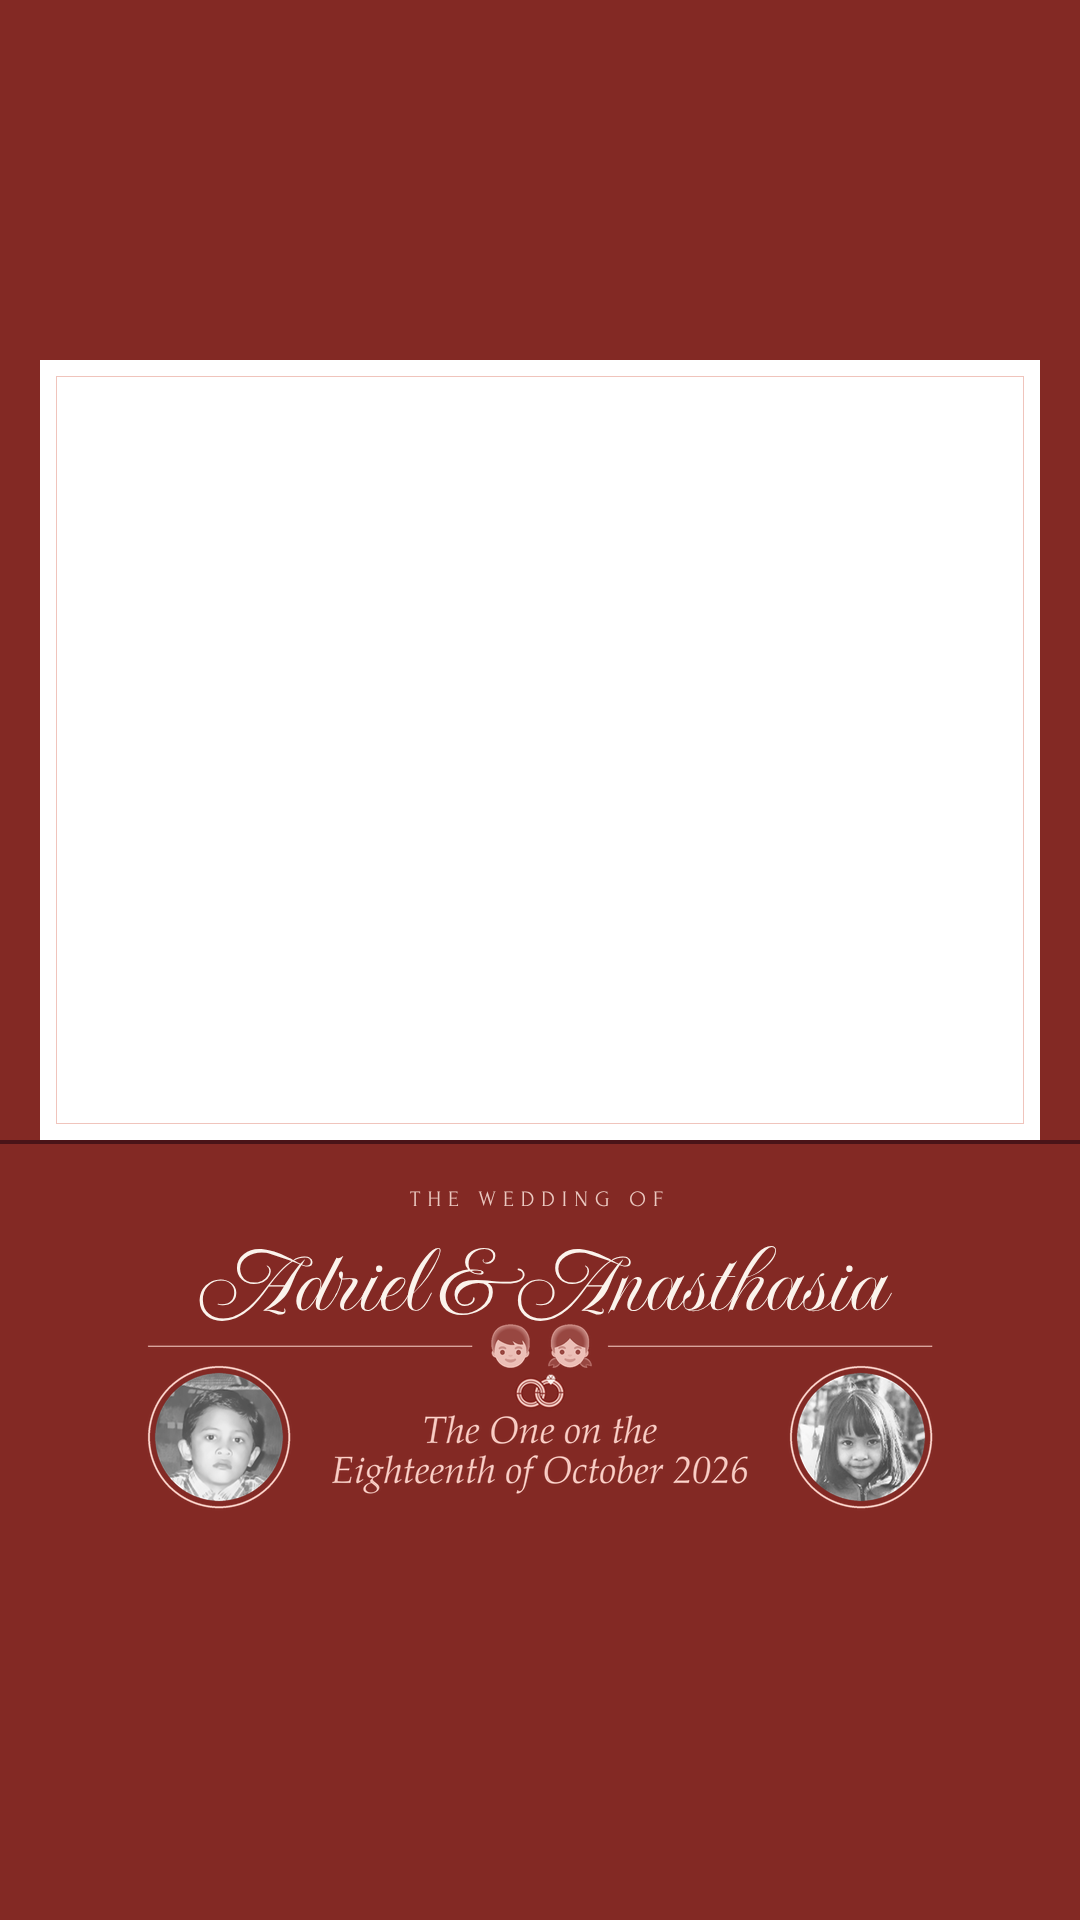
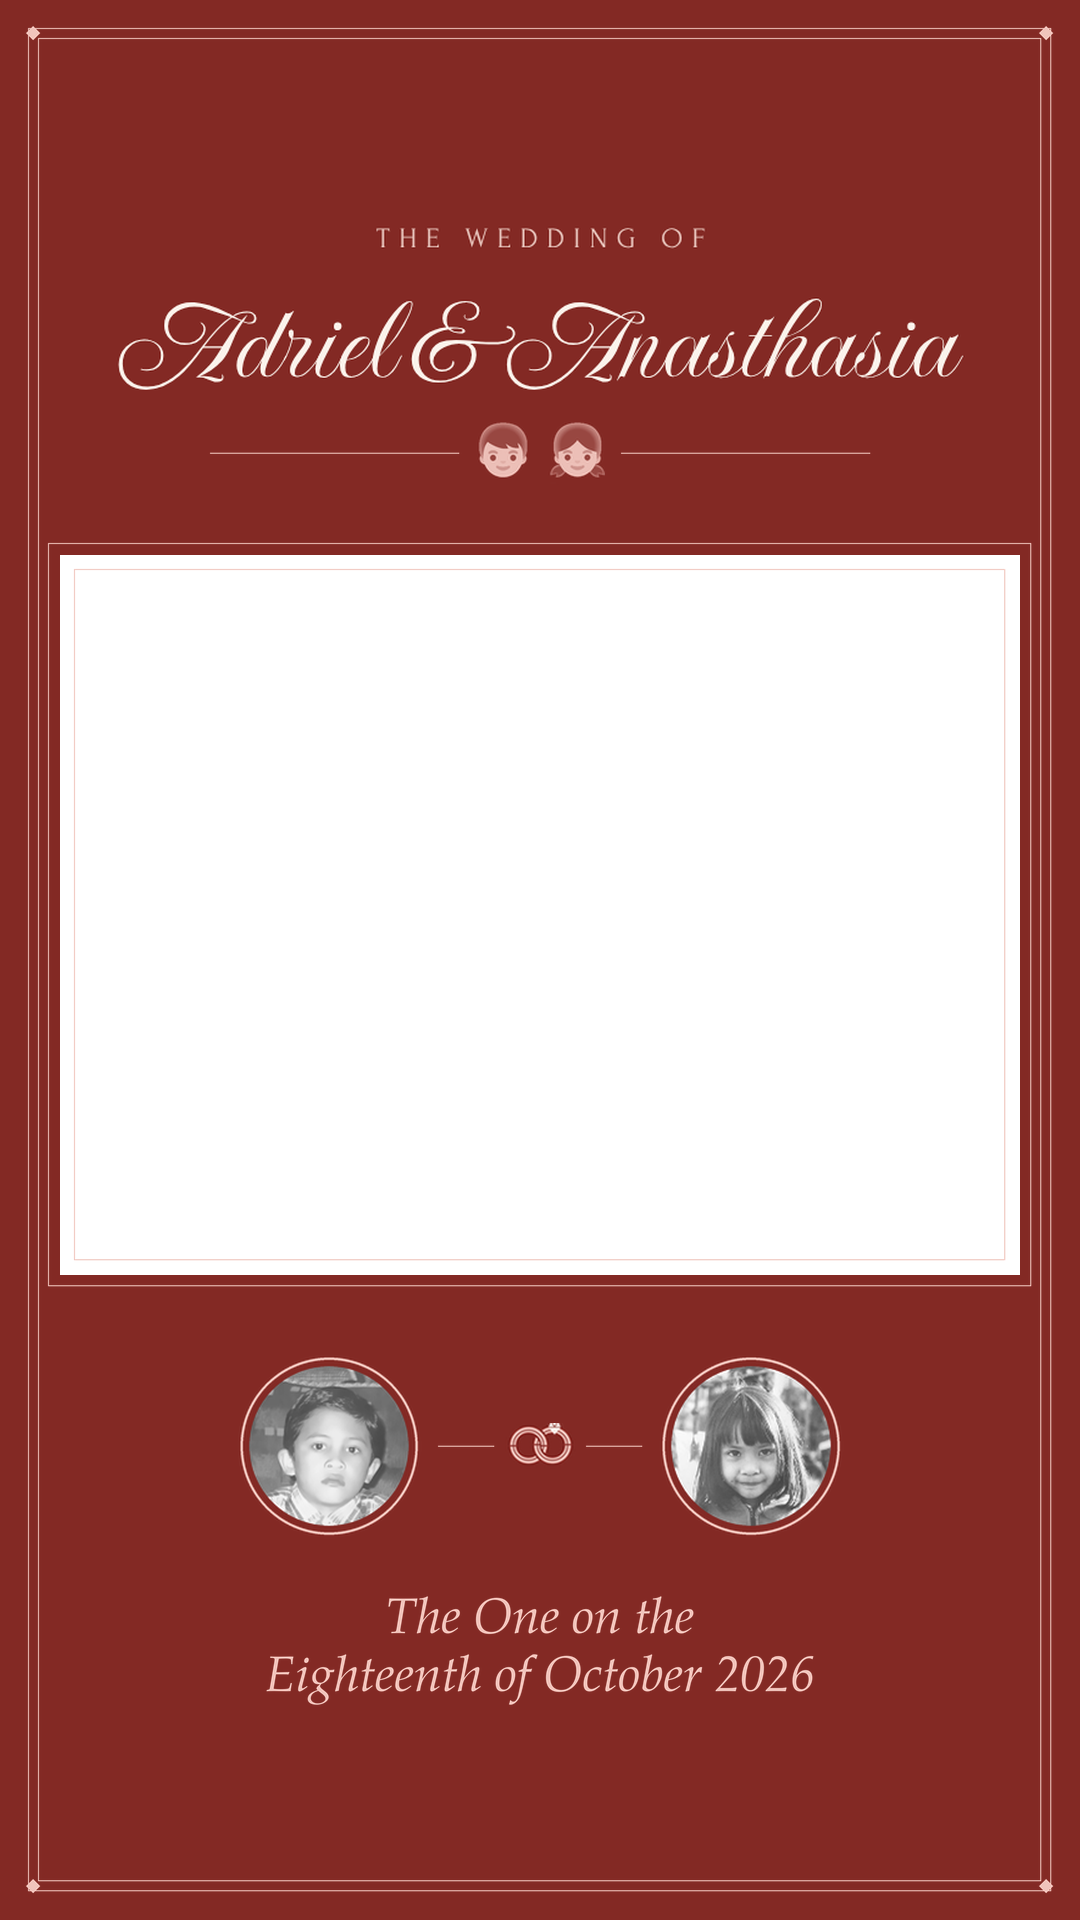
Bingkai Story 2 (landscape): desain baru yang lebih lengkap
Claude-Session: https://claude.ai/code/session_01UUBLka9Sxjaoiu2CfmPSAu

diff --git a/public/id/wedding/index.html b/public/id/wedding/index.html
@@ -81,13 +81,13 @@
     </div>
     <div class="frames">
       <figure class="frame reveal">
-        <img src="/wedding/story-frame-1.png?v=2" width="1080" height="1920" alt="Bingkai 1" loading="lazy">
+        <img src="/wedding/story-frame-1.png?v=3" width="1080" height="1920" alt="Bingkai 1" loading="lazy">
         <figcaption>Bingkai 1, untuk foto tegak</figcaption>
-        <a class="btn btn-gold btn-small" href="/wedding/story-frame-1.png?v=2" download="Adriel &amp; Anasthasia - Story frame 1.png">Unduh bingkai 1</a>
+        <a class="btn btn-gold btn-small" href="/wedding/story-frame-1.png?v=3" download="Adriel &amp; Anasthasia - Story frame 1.png">Unduh bingkai 1</a>
       </figure><figure class="frame reveal">
-        <img src="/wedding/story-frame-2.png?v=2" width="1080" height="1920" alt="Bingkai 2" loading="lazy">
+        <img src="/wedding/story-frame-2.png?v=3" width="1080" height="1920" alt="Bingkai 2" loading="lazy">
         <figcaption>Bingkai 2, untuk foto mendatar</figcaption>
-        <a class="btn btn-gold btn-small" href="/wedding/story-frame-2.png?v=2" download="Adriel &amp; Anasthasia - Story frame 2.png">Unduh bingkai 2</a>
+        <a class="btn btn-gold btn-small" href="/wedding/story-frame-2.png?v=3" download="Adriel &amp; Anasthasia - Story frame 2.png">Unduh bingkai 2</a>
       </figure>
     </div>
     <div class="howto">

diff --git a/public/wedding/index.html b/public/wedding/index.html
@@ -81,13 +81,13 @@
     </div>
     <div class="frames">
       <figure class="frame reveal">
-        <img src="/wedding/story-frame-1.png?v=2" width="1080" height="1920" alt="Frame 1" loading="lazy">
+        <img src="/wedding/story-frame-1.png?v=3" width="1080" height="1920" alt="Frame 1" loading="lazy">
         <figcaption>Frame 1, for portrait photos</figcaption>
-        <a class="btn btn-gold btn-small" href="/wedding/story-frame-1.png?v=2" download="Adriel &amp; Anasthasia - Story frame 1.png">Download frame 1</a>
+        <a class="btn btn-gold btn-small" href="/wedding/story-frame-1.png?v=3" download="Adriel &amp; Anasthasia - Story frame 1.png">Download frame 1</a>
       </figure><figure class="frame reveal">
-        <img src="/wedding/story-frame-2.png?v=2" width="1080" height="1920" alt="Frame 2" loading="lazy">
+        <img src="/wedding/story-frame-2.png?v=3" width="1080" height="1920" alt="Frame 2" loading="lazy">
         <figcaption>Frame 2, for landscape photos</figcaption>
-        <a class="btn btn-gold btn-small" href="/wedding/story-frame-2.png?v=2" download="Adriel &amp; Anasthasia - Story frame 2.png">Download frame 2</a>
+        <a class="btn btn-gold btn-small" href="/wedding/story-frame-2.png?v=3" download="Adriel &amp; Anasthasia - Story frame 2.png">Download frame 2</a>
       </figure>
     </div>
     <div class="howto">

diff --git a/build.py b/build.py
@@ -568,9 +568,9 @@ def wedding(lang):
     </div>
     <div class="frames">
       {''.join(f"""<figure class="frame reveal">
-        <img src="/wedding/story-frame-{n}.png?v=2" width="1080" height="1920" alt="{T(lang, f'Bingkai {n}', f'Frame {n}')}" loading="lazy">
+        <img src="/wedding/story-frame-{n}.png?v=3" width="1080" height="1920" alt="{T(lang, f'Bingkai {n}', f'Frame {n}')}" loading="lazy">
         <figcaption>{T(lang, f'Bingkai {n}, untuk foto {pi}', f'Frame {n}, for {pe} photos')}</figcaption>
-        <a class="btn btn-gold btn-small" href="/wedding/story-frame-{n}.png?v=2" download="Adriel &amp; Anasthasia - Story frame {n}.png">{T(lang, f'Unduh bingkai {n}', f'Download frame {n}')}</a>
+        <a class="btn btn-gold btn-small" href="/wedding/story-frame-{n}.png?v=3" download="Adriel &amp; Anasthasia - Story frame {n}.png">{T(lang, f'Unduh bingkai {n}', f'Download frame {n}')}</a>
       </figure>""" for n, pi, pe in ((1, 'tegak', 'portrait'), (2, 'mendatar', 'landscape')))}
     </div>
     <div class="howto">
